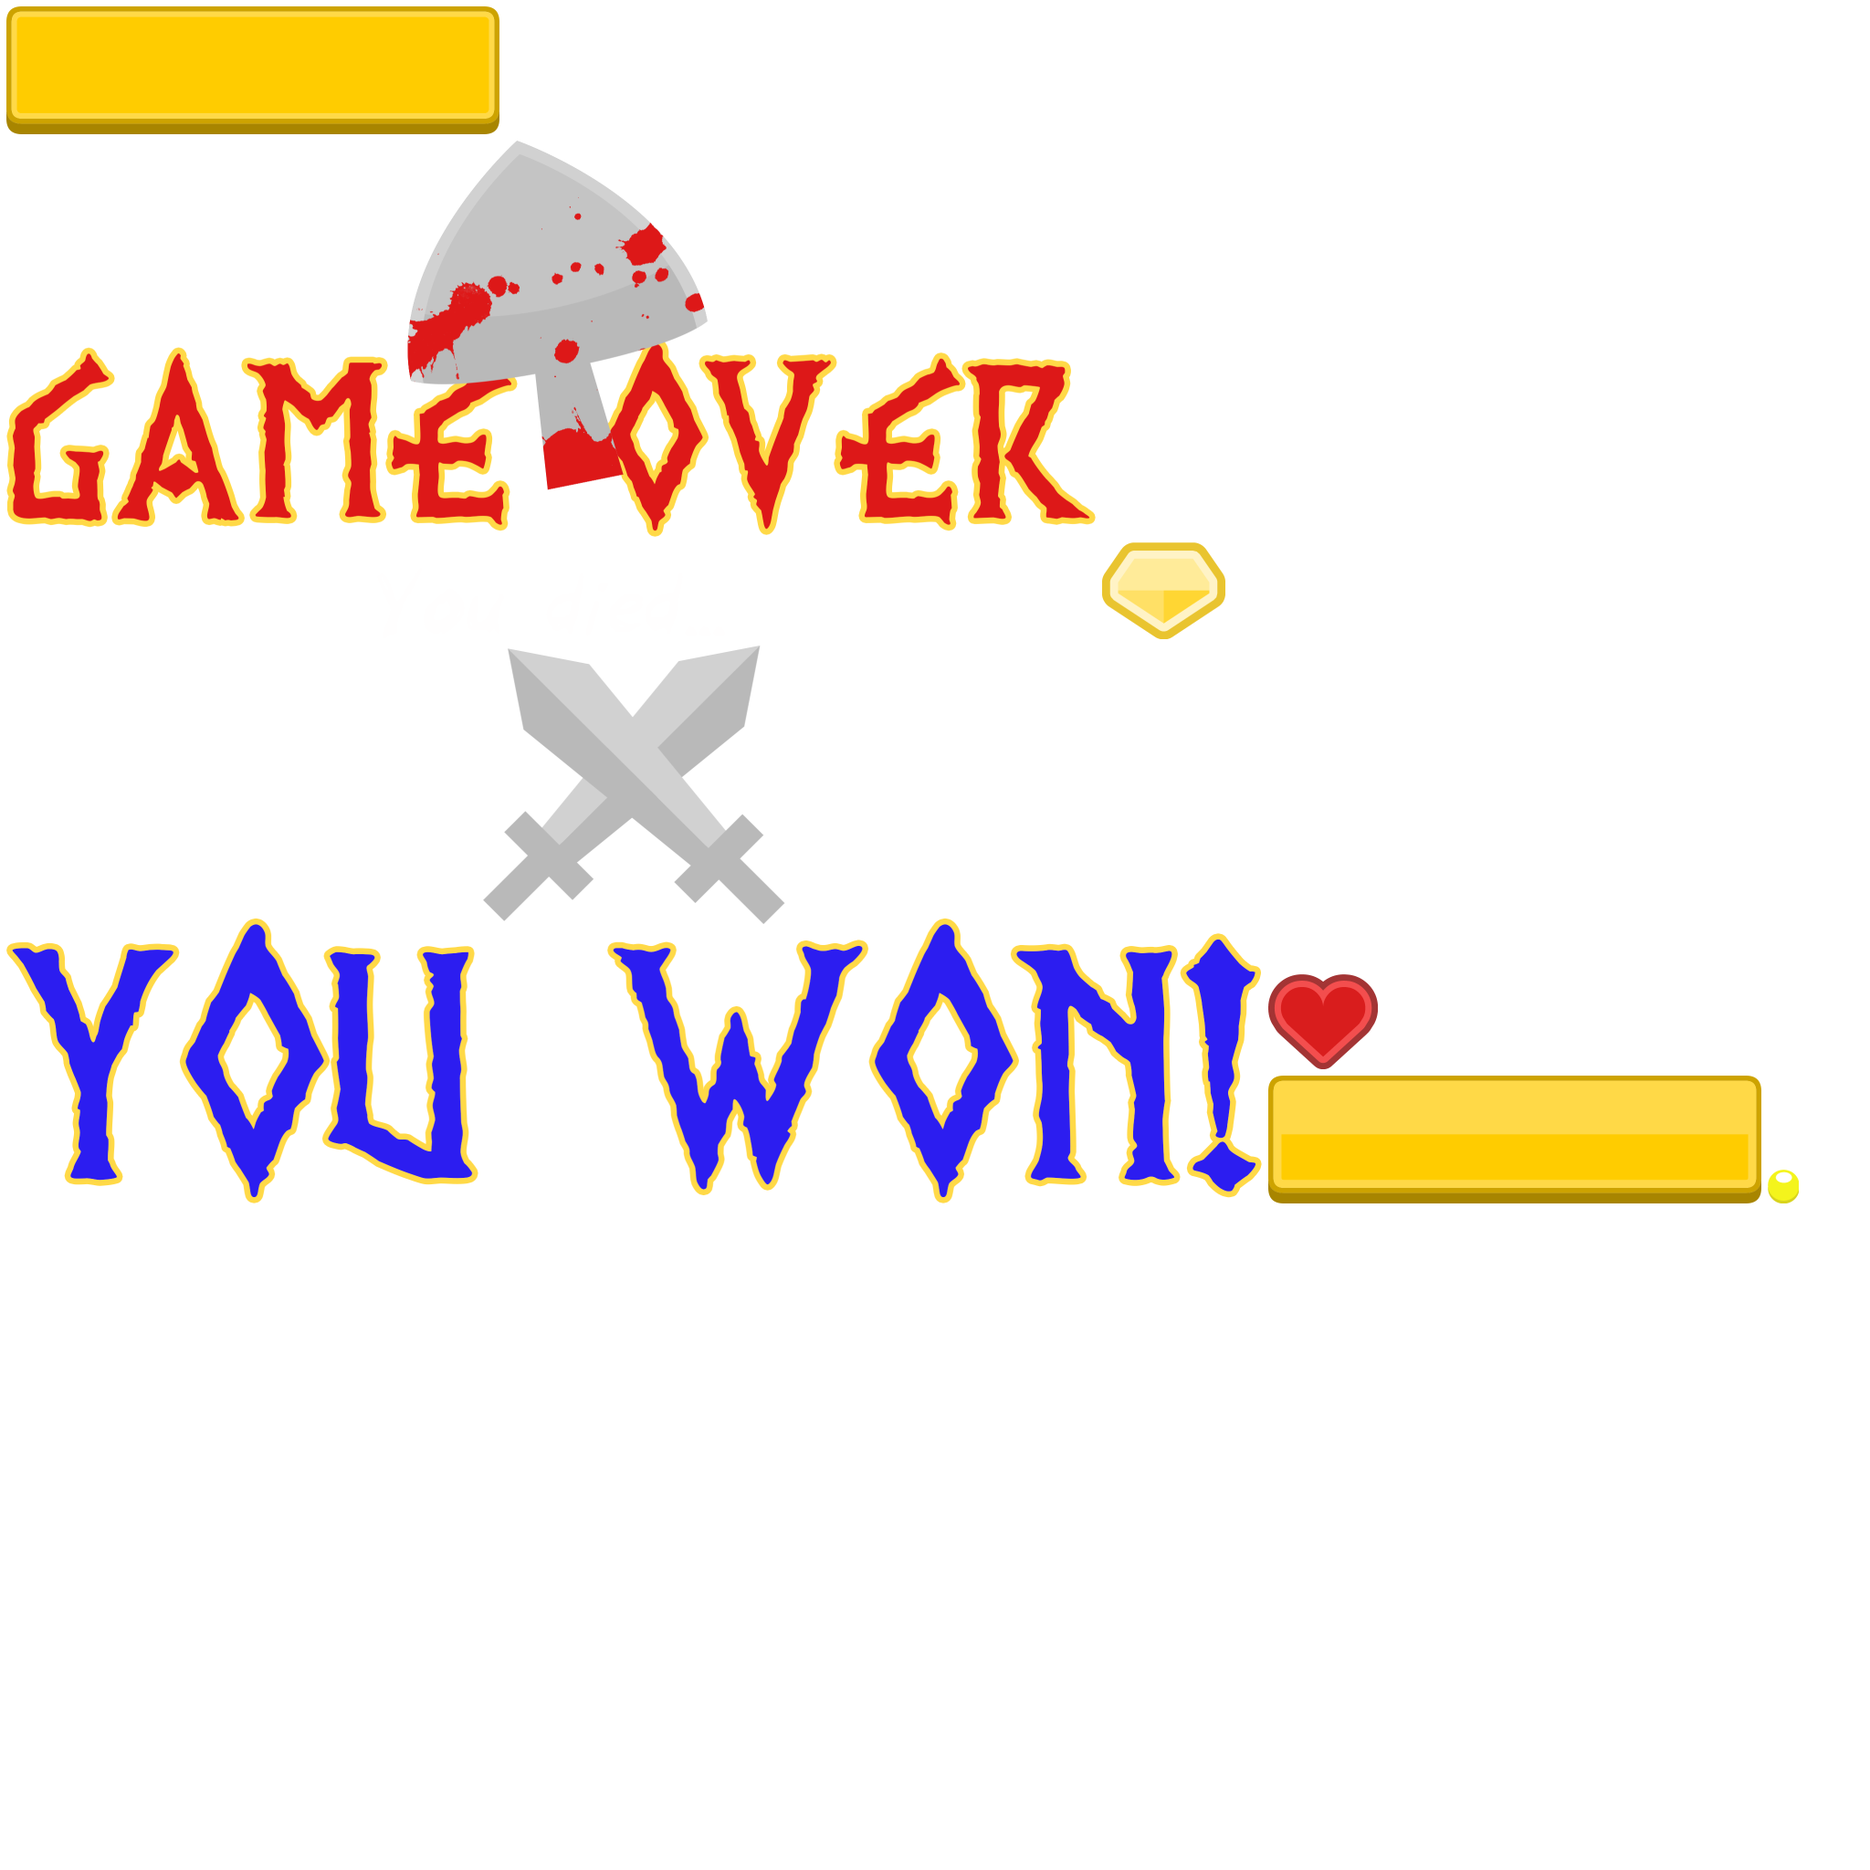
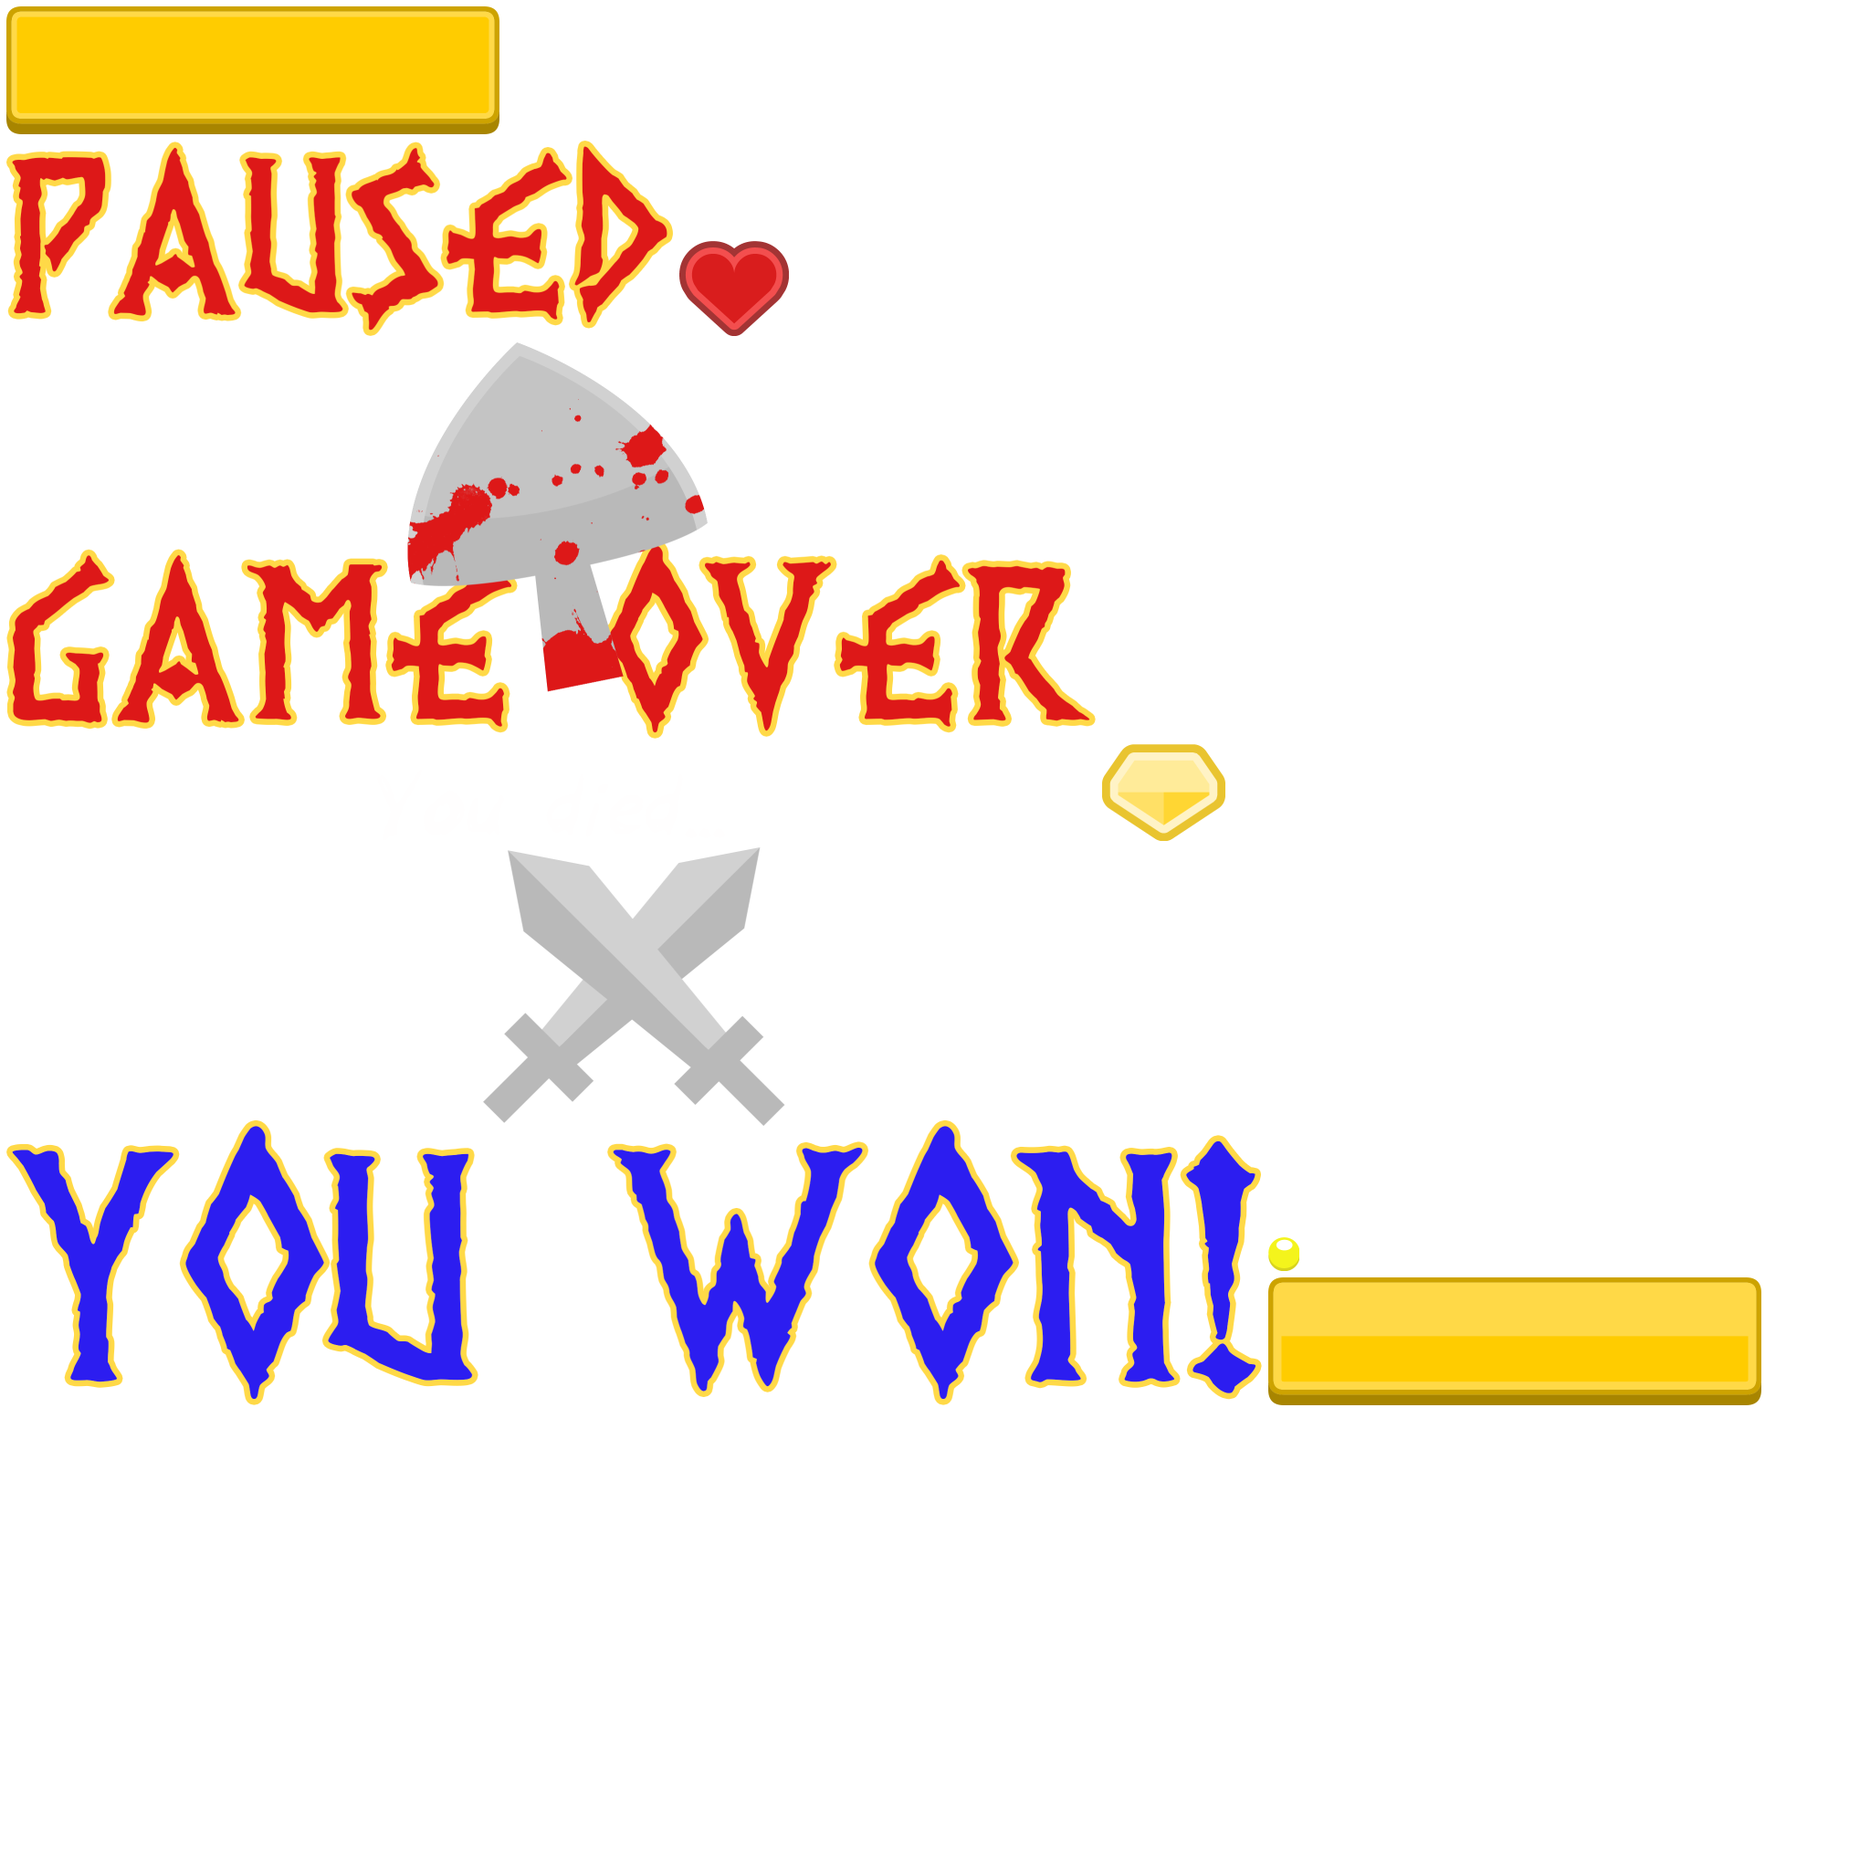
Pause menu done, though it's not pretty.

Changed region(s): [[0.0, 0.0625, 0.9688, 0.75]]

diff --git a/core/src/com/lothbrok/game/controllers/input/MobileInputInterface.java b/core/src/com/lothbrok/game/controllers/input/MobileInputInterface.java
@@ -5,7 +5,6 @@ import com.badlogic.gdx.scenes.scene2d.Actor;
 import com.badlogic.gdx.scenes.scene2d.InputEvent;
 import com.badlogic.gdx.scenes.scene2d.InputListener;
 import com.badlogic.gdx.scenes.scene2d.Stage;
-import com.badlogic.gdx.scenes.scene2d.ui.Container;
 import com.badlogic.gdx.scenes.scene2d.ui.HorizontalGroup;
 import com.badlogic.gdx.scenes.scene2d.ui.ImageButton;
 import com.badlogic.gdx.scenes.scene2d.ui.Skin;
@@ -15,6 +14,7 @@ import com.badlogic.gdx.scenes.scene2d.utils.ChangeListener;
 import com.badlogic.gdx.utils.Disposable;
 import com.badlogic.gdx.utils.viewport.FitViewport;
 import com.lothbrok.game.assets.Assets;
+import com.lothbrok.game.controllers.PauseController;
 import com.lothbrok.game.controllers.PlayerController;
 import com.lothbrok.game.screens.utils.ScreensConstants;
 
@@ -28,21 +28,24 @@ public class MobileInputInterface implements Disposable{
     private Touchpad touchPad;
     private ImageButton btnJump;
     private ImageButton btnAttack;
+    private ImageButton btnPause;
 
-    private PlayerController controller;
+    private PlayerController playerController;
+    private PauseController pauseController;
 
-    public MobileInputInterface(PlayerController controller, SpriteBatch batch) {
+    public MobileInputInterface(PlayerController playerController, PauseController pauseController, SpriteBatch batch) {
         stage = new Stage(new FitViewport(ScreensConstants.VIEWPORT_MENU_WIDTH,
                                           ScreensConstants.VIEWPORT_MENU_HEIGHT), batch);
         skin = Assets.instance.getMobileControlsSkin();
-        this.controller = controller;
+        this.playerController = playerController;
+        this.pauseController = pauseController;
         rebuildStage();
     }
 
     //TODO a padding erteket kiszervezni
     private void rebuildStage() {
         stage.clear();
-        //stage.setDebugAll(true);
+        stage.setDebugAll(true);
 
         Table rootTable = new Table();
         rootTable.setFillParent(true);
@@ -51,9 +54,11 @@ public class MobileInputInterface implements Disposable{
         buildTouchPad();
         buildJumpButton();
         buildAttackButton();
+        buildPauseButton();
 
-        Container<Touchpad> touchpadContainer = buildTouchPadLayer();
-        rootTable.add(touchpadContainer).expand().bottom().left().padBottom(50f).padLeft(50f);
+        rootTable.add(touchPad).expand().bottom().left().padBottom(50f).padLeft(50f);
+
+        rootTable.add(btnPause).expand().center().bottom().padBottom(50f);
 
         HorizontalGroup btnGroup = buildButtonsLayer();
         rootTable.add(btnGroup).expand().bottom().right().padBottom(50f).padRight(50f);
@@ -65,12 +70,12 @@ public class MobileInputInterface implements Disposable{
         touchPad.addListener(new ChangeListener() {
             @Override
             public void changed(ChangeEvent event, Actor actor) {
-                controller.moveRight(false);
-                controller.moveLeft(false);
+                playerController.moveRight(false);
+                playerController.moveLeft(false);
                 if(touchPad.getKnobPercentX() > 0f) {
-                    controller.moveRight(true);
+                    playerController.moveRight(true);
                 } else if(touchPad.getKnobPercentX() < 0f) {
-                    controller.moveLeft(true);
+                    playerController.moveLeft(true);
                 }
             }
         });
@@ -82,13 +87,13 @@ public class MobileInputInterface implements Disposable{
         btnJump.addListener(new InputListener() {
             @Override
             public boolean touchDown(InputEvent event, float x, float y, int pointer, int button) {
-                controller.jump(true);
+                playerController.jump(true);
                 return true;
             }
 
             @Override
             public void touchUp(InputEvent event, float x, float y, int pointer, int button) {
-                controller.jump(false);
+                playerController.jump(false);
             }
         });
     }
@@ -99,16 +104,22 @@ public class MobileInputInterface implements Disposable{
         btnAttack.addListener(new InputListener() {
             @Override
             public boolean touchDown(InputEvent event, float x, float y, int pointer, int button) {
-                controller.attack(true);
+                playerController.attack(true);
                 return true;
             }
         });
     }
 
-    private Container<Touchpad> buildTouchPadLayer() {
-        Container<Touchpad> result = new Container<>();
-        result.setActor(touchPad);
-        return result;
+    private void buildPauseButton() {
+        ImageButton.ImageButtonStyle style = skin.get("pause", ImageButton.ImageButtonStyle.class);
+        btnPause = new ImageButton(style);
+        btnPause.addListener(new InputListener() {
+            @Override
+            public boolean touchDown(InputEvent event, float x, float y, int pointer, int button) {
+                pauseController.setPaused(true);
+                return true;
+            }
+        });
     }
 
     private HorizontalGroup buildButtonsLayer() {

diff --git a/core/src/com/lothbrok/game/screens/GameScreen.java b/core/src/com/lothbrok/game/screens/GameScreen.java
@@ -8,11 +8,11 @@ import com.badlogic.gdx.physics.box2d.Box2DDebugRenderer;
 import com.badlogic.gdx.utils.ObjectMap;
 import com.lothbrok.game.assets.Assets;
 import com.lothbrok.game.assets.entities.EnemyAnimation;
-import com.lothbrok.game.controllers.PlayerController;
-import com.lothbrok.game.controllers.EnemyController;
 import com.lothbrok.game.controllers.CameraController;
+import com.lothbrok.game.controllers.EnemyController;
+import com.lothbrok.game.controllers.PauseController;
+import com.lothbrok.game.controllers.PlayerController;
 import com.lothbrok.game.controllers.input.MobileInputInterface;
-import com.lothbrok.game.controllers.input.PCInput;
 import com.lothbrok.game.model.GameModel;
 import com.lothbrok.game.model.entities.Enemy;
 import com.lothbrok.game.model.entities.Entity;
@@ -23,6 +23,7 @@ import com.lothbrok.game.renderers.ExtendedCamera;
 import com.lothbrok.game.renderers.GameOverRenderer;
 import com.lothbrok.game.renderers.GameRenderer;
 import com.lothbrok.game.renderers.HUDRenderer;
+import com.lothbrok.game.renderers.PauseRenderer;
 import com.lothbrok.game.renderers.YouWonRenderer;
 
 import java.util.Iterator;
@@ -46,12 +47,14 @@ public class GameScreen extends AbstractScreen {
     private MobileInputInterface mobileInputInterface;
     private Box2DDebugRenderer box2DDebugRenderer;
     private EndOfGameRenderer endOfGameRenderer;
+    private PauseRenderer pauseRenderer;
 
     //C
     private InputProcessor inputProcessor;
     private PlayerController playerController;
     private CameraController cameraController;
     private EnemyController enemyController;
+    private PauseController pauseController;
 
     @Override
     public void show() {
@@ -66,9 +69,11 @@ public class GameScreen extends AbstractScreen {
 
         playerController = new PlayerController();
         cameraController = new CameraController();
-        mobileInputInterface = new MobileInputInterface(playerController, spriteBatch);
-        inputProcessor = new PCInput(playerController, cameraController);
-        //inputProcessor = mobileInputInterface.getStage();
+        pauseController = new PauseController();
+        mobileInputInterface = new MobileInputInterface(playerController, pauseController, spriteBatch);
+        pauseRenderer = new PauseRenderer(spriteBatch, shapeRenderer, pauseController);
+        //inputProcessor = new PCInput(playerController, cameraController, pauseController);
+        inputProcessor = mobileInputInterface.getStage();
         Gdx.input.setInputProcessor(inputProcessor);
         enemyController = new EnemyController();
 
@@ -81,6 +86,14 @@ public class GameScreen extends AbstractScreen {
 
     @Override
     public void render(float deltaTime) {
+        super.render(deltaTime);
+        if(pauseController.isPaused()) {
+            Gdx.input.setInputProcessor(pauseRenderer.getStage());
+            pauseRenderer.render(deltaTime);
+            return;
+        } else {
+            Gdx.input.setInputProcessor(inputProcessor);
+        }
         if(isGameFinished) {
             updateAfterGameFinished(deltaTime);
             renderAfterGameFinished(deltaTime);
@@ -88,7 +101,6 @@ public class GameScreen extends AbstractScreen {
             updateRegular(deltaTime);
             renderRegular(deltaTime);
         }
-        super.render(deltaTime);
     }
 
     // TODO move bounding box setting to a playerController?

diff --git a/core/src/com/lothbrok/game/renderers/PauseRenderer.java b/core/src/com/lothbrok/game/renderers/PauseRenderer.java
@@ -1,0 +1,50 @@
+package com.lothbrok.game.renderers;
+
+import com.badlogic.gdx.graphics.Color;
+import com.badlogic.gdx.graphics.g2d.SpriteBatch;
+import com.badlogic.gdx.graphics.glutils.ShapeRenderer;
+import com.badlogic.gdx.scenes.scene2d.Actor;
+import com.badlogic.gdx.scenes.scene2d.ui.Image;
+import com.badlogic.gdx.scenes.scene2d.ui.TextButton;
+import com.badlogic.gdx.scenes.scene2d.utils.ChangeListener;
+import com.lothbrok.game.assets.Assets;
+import com.lothbrok.game.assets.utils.AssetsConstants;
+import com.lothbrok.game.controllers.PauseController;
+
+public class PauseRenderer extends EndOfGameRenderer {
+
+    private PauseController pauseController;
+
+    private Image pausedLogo;
+    private TextButton btnResume;
+
+    public PauseRenderer(SpriteBatch spriteBatch, ShapeRenderer shapeRenderer, PauseController pauseController) {
+        super(spriteBatch, shapeRenderer);
+        this.pauseController = pauseController;
+        pausedLogo = skin.get(AssetsConstants.UI_PAUSED_LOGO, Image.class);
+        rootTable.add(pausedLogo).expand().center().padTop(50f).row();
+        buildBtnResume();
+        buildBtnMainMenu();
+    }
+
+    private void buildBtnResume() {
+        TextButton.TextButtonStyle style = skin.get(AssetsConstants.UI_TEXT_BUTTON_STYLE, TextButton.TextButtonStyle.class);
+        style.font = Assets.instance.getMainMenuAssets().getFont48();
+        style.fontColor = skin.get("white", Color.class);
+        btnResume = new TextButton("RESUME", style);
+        btnResume.addListener(new ChangeListener() {
+            @Override
+            public void changed(ChangeEvent event, Actor actor) {
+                pauseController.setPaused(false);
+            }
+        });
+
+        rootTable.add(btnResume).expand().padTop(50f);
+    }
+
+    @Override
+    protected void rebuildStage(ShapeRenderer shapeRenderer) {
+        super.rebuildStage(shapeRenderer);
+        rootTable.add(pausedLogo).expand().top().center().padTop(50f).row();
+    }
+}

diff --git a/core/src/com/lothbrok/game/controllers/input/PCInput.java b/core/src/com/lothbrok/game/controllers/input/PCInput.java
@@ -3,16 +3,19 @@ package com.lothbrok.game.controllers.input;
 import com.badlogic.gdx.Input;
 import com.badlogic.gdx.InputProcessor;
 import com.lothbrok.game.controllers.CameraController;
+import com.lothbrok.game.controllers.PauseController;
 import com.lothbrok.game.controllers.PlayerController;
 
 public class PCInput implements InputProcessor {
 
     private PlayerController playerController;
     private CameraController cameraController;
+    private PauseController pauseController;
 
-    public PCInput(PlayerController playerController, CameraController cameraController) {
+    public PCInput(PlayerController playerController, CameraController cameraController, PauseController pauseController) {
         this.playerController = playerController;
         this.cameraController = cameraController;
+        this.pauseController = pauseController;
     }
 
     @Override
@@ -88,6 +91,10 @@ public class PCInput implements InputProcessor {
         }
         if(keycode == Input.Keys.SPACE) {
             cameraController.debugModeOn(false);
+        }
+
+        if(keycode == Input.Keys.ESCAPE) {
+            pauseController.switchPaused();
         }
 
         return true;

diff --git a/core/src/com/lothbrok/game/assets/utils/AssetsConstants.java b/core/src/com/lothbrok/game/assets/utils/AssetsConstants.java
@@ -52,5 +52,6 @@ public class AssetsConstants {
     public static final String UI_COIN = "coin";
     public static final String UI_GAME_OVER_LOGO = "gameOverLogo";
     public static final String UI_YOU_WON_LOGO = "youWonLogo";
+    public static final String UI_PAUSED_LOGO = "pausedLogo";
     public static final String UI_TEXT_BUTTON_STYLE = "default";
 }

diff --git a/core/src/com/lothbrok/game/controllers/PauseController.java b/core/src/com/lothbrok/game/controllers/PauseController.java
@@ -1,0 +1,18 @@
+package com.lothbrok.game.controllers;
+
+public class PauseController {
+
+    private boolean paused = false;
+
+    public boolean isPaused() {
+        return paused;
+    }
+
+    public void setPaused(boolean paused) {
+        this.paused = paused;
+    }
+
+    public void switchPaused() {
+        paused = !paused;
+    }
+}

diff --git a/core/src/com/lothbrok/game/renderers/EndOfGameRenderer.java b/core/src/com/lothbrok/game/renderers/EndOfGameRenderer.java
@@ -77,6 +77,10 @@ public class EndOfGameRenderer implements Disposable {
         stage.getViewport().update(width, height, true);
     }
 
+    public Stage getStage() {
+        return stage;
+    }
+
     @Override
     public void dispose() {
         stage.dispose();
